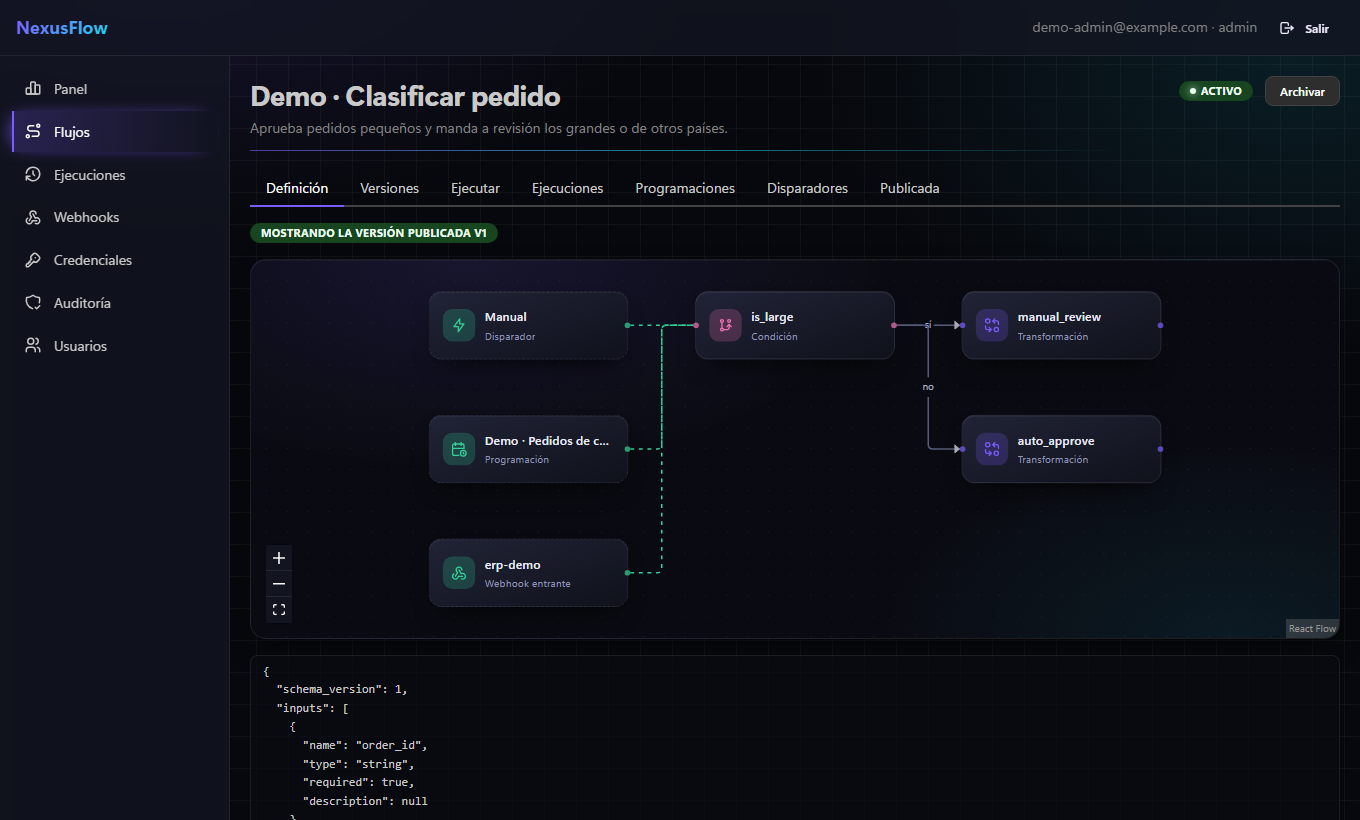
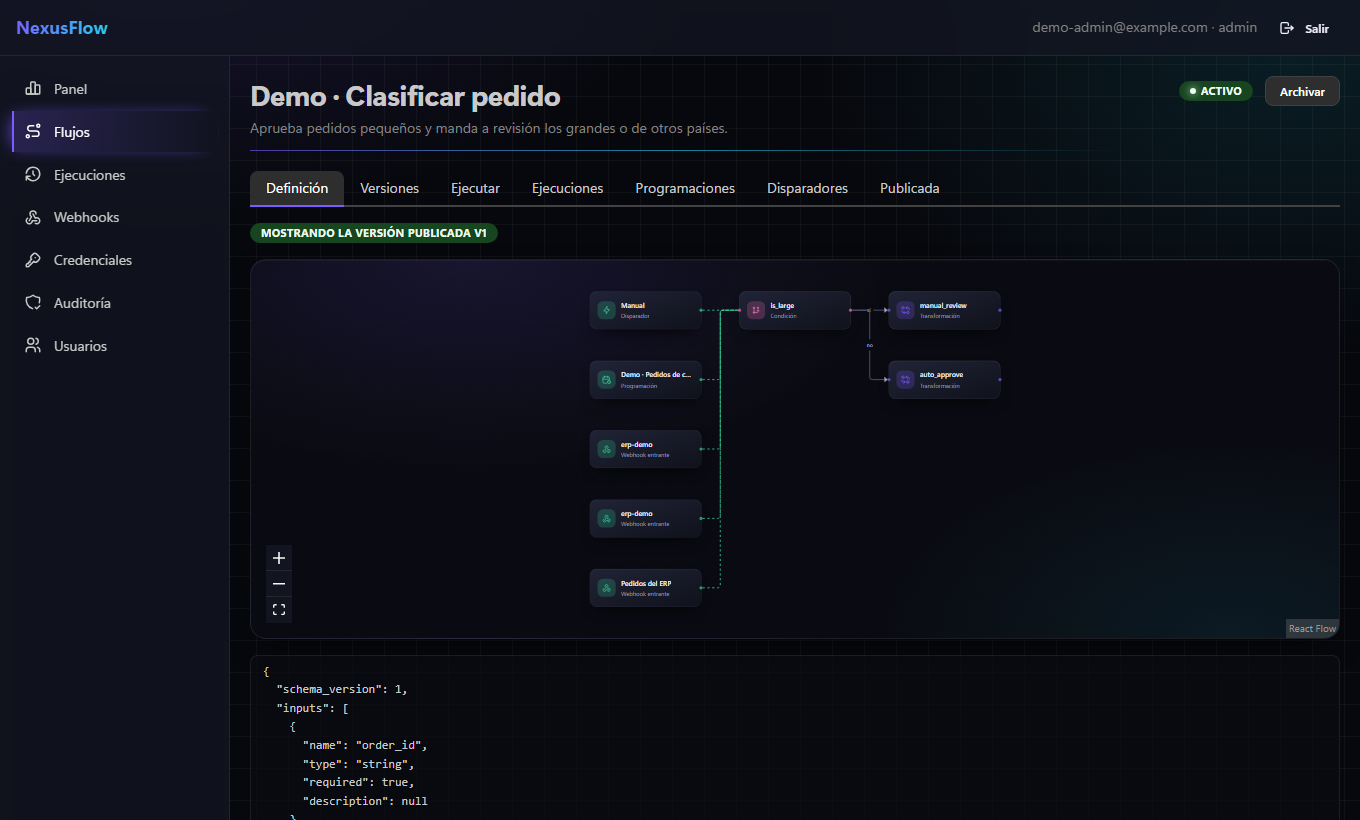
docs: evidencias de la fase 11 en el README y capturas de las pantallas nuevas
Sube el contraste de los pasos no ejecutados en el lienzo y documenta en el ADR-0013 el límite de las ramas que se reúnen.

diff --git a/frontend/e2e/screenshots.spec.ts b/frontend/e2e/screenshots.spec.ts
@@ -3,12 +3,16 @@
  * No forma parte de la suite normal: solo corre con CAPTURE_SCREENSHOTS=1.
  *
  *   CAPTURE_SCREENSHOTS=1 E2E_BASE_URL=... E2E_PASSWORD=... pnpm exec playwright test screenshots
+ *
+ * Con E2E_WEBHOOK_SECRET (el MOCK_PARTNER_WEBHOOK_SECRET del .env) la suscripción de ejemplo
+ * firma con el secreto que la API simulada verifica y la entrega del ping sale completada;
+ * sin él, la API simulada responde 401 y la captura muestra un reintento programado.
  */
 import { expect, test } from "@playwright/test";
 import path from "node:path";
 import { fileURLToPath } from "node:url";
 
-import { loginAs } from "./helpers";
+import { PASSWORD, loginAs } from "./helpers";
 
 test.skip(!process.env.CAPTURE_SCREENSHOTS, "Solo para regenerar las capturas del README");
 test.use({ viewport: { width: 1360, height: 820 }, colorScheme: "dark" });
@@ -17,6 +21,10 @@ const OUT = fileURLToPath(new URL("../../docs/screenshots", import.meta.url));
 const shot = (name: string) => ({ path: path.join(OUT, `${name}.png`), animations: "disabled" as const });
 
 test("capturas del panel", async ({ page }) => {
+  await page.goto("/login");
+  await expect(page.getByRole("button", { name: "Entrar" })).toBeVisible();
+  await page.screenshot(shot("12-login"));
+
   await loginAs(page, "admin", "/");
   await expect(page.getByText("Tasa de éxito").first()).toBeVisible();
   await page.mouse.move(0, 0); // sin tooltips del gráfico
@@ -28,8 +36,34 @@ test("capturas del panel", async ({ page }) => {
 
   await page.getByRole("link", { name: "Demo · Clasificar pedido" }).click();
   await expect(page.getByLabel("Definición del flujo")).toBeVisible();
+
+  // Disparador de webhook: se crea una vez; después aparece como nodo de entrada del lienzo.
+  await page.getByRole("tab", { name: "Disparadores" }).click();
+  const triggerName = "Pedidos del ERP";
+  await expect(page.getByRole("button", { name: "Nuevo disparador" })).toBeVisible();
+  await page.waitForTimeout(600);
+  if ((await page.getByRole("cell", { name: triggerName, exact: true }).count()) === 0) {
+    await page.getByRole("button", { name: "Nuevo disparador" }).click();
+    await page.getByLabel("Nombre").fill(triggerName);
+    await page.getByRole("button", { name: "Crear", exact: true }).click();
+    await page.getByRole("button", { name: "Ya lo copié" }).click();
+  }
+  await expect(page.getByRole("cell", { name: triggerName, exact: true })).toBeVisible();
   await page.waitForTimeout(500);
+  await page.screenshot(shot("13-disparadores"));
+
+  await page.getByRole("tab", { name: "Definición" }).click();
+  await expect(page.getByTestId("flow-canvas")).toBeVisible();
+  await expect(page.getByLabel(`Disparador ${triggerName}`)).toBeVisible();
+  await page.waitForTimeout(800);
   await page.screenshot(shot("03-editor-flujo"));
+
+  await page.getByRole("tab", { name: "Versiones" }).click();
+  await page.getByRole("button", { name: "Abrir versión 1" }).click();
+  await expect(page.getByRole("heading", { name: "Versión 1" })).toBeVisible();
+  await expect(page.getByTestId("flow-canvas")).toBeVisible();
+  await page.waitForTimeout(800);
+  await page.screenshot(shot("14-versiones"));
 
   // Programaciones: la de 15 minutos ya se disparó sola (beat → barrido → ejecución).
   await page.goto("/workflows");
@@ -61,10 +95,38 @@ test("capturas del panel", async ({ page }) => {
   await page.waitForTimeout(500);
   await page.screenshot({ ...shot("07-ejecucion-fallida"), fullPage: true });
 
+  // Webhooks salientes: una suscripción hacia la API simulada, un ping y su entrega.
   await page.goto("/webhooks");
   await expect(page.getByRole("heading", { name: "Webhooks" })).toBeVisible();
+  const hookName = "Avisos a facturación";
+  await page.waitForTimeout(600);
+  if ((await page.getByRole("cell", { name: hookName, exact: true }).count()) === 0) {
+    // Por API y no por el panel: el panel no deja elegir el secreto (lo genera el servidor).
+    const login = await page.request.post("/api/v1/auth/login", { data: { email: "demo-admin@example.com", password: PASSWORD } });
+    const token = ((await login.json()) as { access_token: string }).access_token;
+    const created = await page.request.post("/api/v1/webhook-subscriptions", {
+      headers: { Authorization: `Bearer ${token}` },
+      data: {
+        name: hookName,
+        url: "http://mock-partner:8080/webhooks/nexusflow",
+        events: ["run.succeeded", "run.failed"],
+        secret: process.env.E2E_WEBHOOK_SECRET ?? null,
+      },
+    });
+    expect(created.status()).toBe(201);
+    await page.reload();
+  }
+  await expect(page.getByRole("cell", { name: hookName, exact: true })).toBeVisible();
+  await page.mouse.move(0, 0);
   await page.waitForTimeout(500);
   await page.screenshot(shot("11-webhooks"));
+
+  await page.getByRole("button", { name: `Enviar ping a ${hookName}` }).click();
+  await page.getByRole("button", { name: `Entregas de ${hookName}` }).click();
+  await expect(page.getByRole("dialog").getByRole("cell", { name: /ping/ }).first()).toBeVisible({ timeout: 30_000 });
+  await page.waitForTimeout(6000); // el cajón refresca cada 5 s: la entrega llega a su estado final
+  await page.screenshot(shot("15-entregas"));
+  await page.keyboard.press("Escape");
 
   await page.goto("/credentials");
   await expect(page.getByText("demo_crm")).toBeVisible();

diff --git a/frontend/src/features/canvas/FlowCanvas.module.css b/frontend/src/features/canvas/FlowCanvas.module.css
@@ -108,7 +108,7 @@
 }
 .node[data-run="skipped"] {
   --tone: var(--nf-idle);
-  opacity: 0.35;
+  opacity: 0.6;
   border-color: var(--nf-border);
 }
 

diff --git a/README.md b/README.md
@@ -53,8 +53,30 @@ demostración de `nexusflow seed-demo`, que son ficticios. Se regeneran con
 | ![Panel de métricas](docs/screenshots/01-panel.png)<br>**Panel:** volumen, tasa de éxito, p50/p95 y últimos fallos, calculados en PostgreSQL | ![Programaciones cron](docs/screenshots/04-programaciones.png)<br>**Programaciones cron** con zona horaria, próximo y último disparo |
 | ![Cobro VIP con reintentos](docs/screenshots/06-detalle-ejecucion.png)<br>**Lienzo de la ejecución:** cada paso toma el color de su estado y el contador marca los reintentos (la pasarela simulada falla dos veces con 503 y el motor reintenta con la misma `Idempotency-Key`) | ![Ejecución fallida](docs/screenshots/07-ejecucion-fallida.png)<br>**Error clasificado:** un 404 no se reintenta y se muestra el paso que falló |
 | ![Editor de flujos](docs/screenshots/03-editor-flujo.png)<br>**Editor** con el flujo dibujado en un lienzo que sigue al JSON, validación del grafo y versiones inmutables | ![Credenciales](docs/screenshots/08-credenciales.png)<br>**Credenciales** de solo escritura: solo se ven metadatos y una pista |
-| ![Webhooks salientes](docs/screenshots/11-webhooks.png)<br>**Webhooks salientes:** suscripciones, historial de entregas, ping y reenvío de las agotadas | |
+| ![Webhooks salientes](docs/screenshots/11-webhooks.png)<br>**Webhooks salientes:** suscripciones hacia otros sistemas, con ping, rotación de secreto y borrado con confirmación | ![Entregas de un webhook](docs/screenshots/15-entregas.png)<br>**Entregas:** el ping llega firmado a la API simulada, que verifica la firma y responde 200. Las entregas agotadas se pueden reenviar |
+| ![Disparadores](docs/screenshots/13-disparadores.png)<br>**Disparadores:** webhooks entrantes con URL propia, límite por minuto y secreto que solo se muestra una vez | ![Visor de versiones](docs/screenshots/14-versiones.png)<br>**Versiones:** cualquier versión publicada se abre en solo lectura, con su lienzo y su JSON |
 | ![Auditoría](docs/screenshots/09-auditoria.png)<br>**Auditoría** de solo inserción: la ejecución lanzada por el cron aparece sin actor humano | ![Dashboard de Grafana](docs/screenshots/10-grafana.png)<br>**Observabilidad:** dashboard de Grafana sobre `/metrics` durante una prueba de carga con k6 (≈12 ejecuciones/s). Ver [deploy/observability](deploy/observability/README.md) |
+
+### Evidencias de la fase 11 (rediseño del panel)
+
+Medido el 9 nov 2026 sobre esta versión, contra el stack real en Docker:
+
+| Comprobación | Resultado |
+|---|---|
+| Pruebas unitarias del frontend (Vitest) | 91 de 91 |
+| Cobertura del frontend | 82,6 % sentencias · 73,1 % ramas (suelo en CI: 80 % / 70 %) |
+| Pruebas E2E (Playwright) | 12 de 12, incluida la de `prefers-reduced-motion` |
+| Chunk de entrada (gzip) | 143,24 → 144,26 kB (+0,7 %) |
+| Chunk del panel de métricas (gzip) | 120,01 → 115,89 kB |
+| Lienzo de flujos | chunk propio de 59,5 kB, solo en flujos y ejecuciones |
+| Imágenes Docker (Trivy, HIGH y CRITICAL con parche) | 0 hallazgos en backend, web y API simulada |
+
+<p align="center">
+  <img src="docs/screenshots/12-login.png" alt="Inicio de sesión con el sistema visual nuevo" width="640">
+</p>
+
+Detalle de pesos en [docs/performance.md](docs/performance.md) y decisiones en el
+[ADR-0013](docs/adr/0013-lienzo-y-sistema-visual.md).
 
 ## Qué demuestra este proyecto
 

diff --git a/docs/adr/0013-lienzo-y-sistema-visual.md b/docs/adr/0013-lienzo-y-sistema-visual.md
@@ -78,5 +78,8 @@ mutaciones de react-query. Hay una prueba que lo comprueba.
   mayor de Mantine obliga a revisarlos.
 - Los nodos del lienzo usan `data-run` y no `data-status`: ese atributo identifica la
   insignia de estado y las pruebas E2E lo buscan.
+- El lienzo no sabe qué rama eligió una condición: marca como recorrida una conexión cuando
+  su origen y su destino tienen registro. Si las dos ramas se reúnen, puede marcar también la
+  no tomada. Corregirlo exige que la API informe la rama elegida.
 - Toda la información del lienzo sigue disponible como texto: el acordeón de pasos y el JSON
   se conservan, y cada nodo tiene nombre accesible con su estado e intentos.
